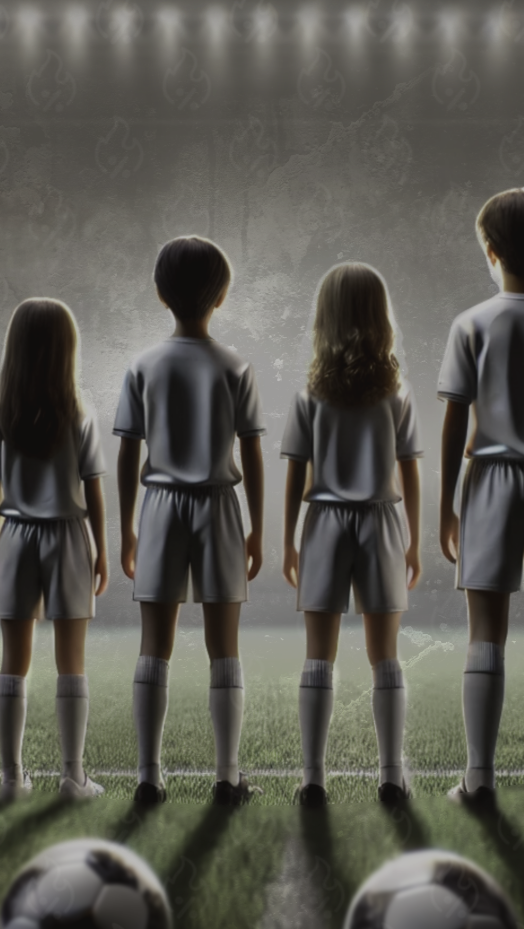
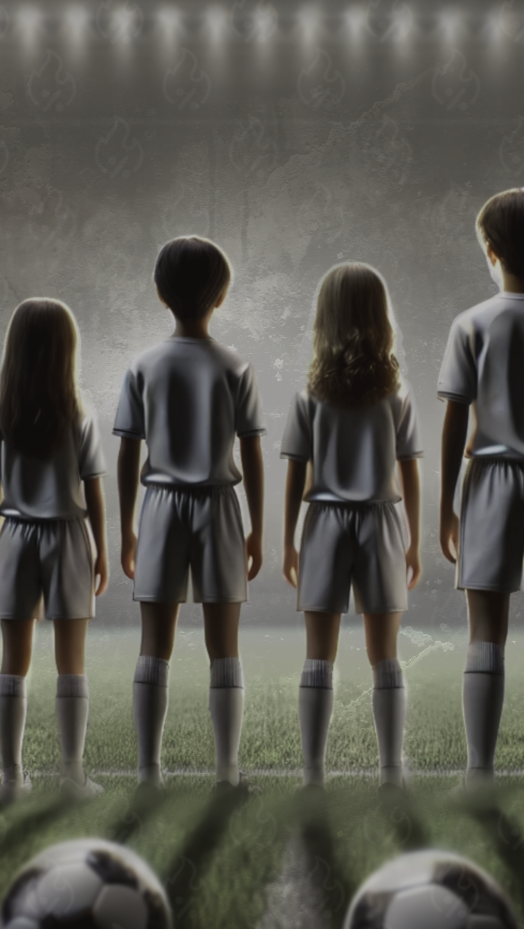
chnaged background on all påages

Changed region(s): [[0.2443, 0.8116, 0.9771, 0.9053], [0.0916, 0.8116, 0.2137, 0.8741]]

diff --git a/src/app/sajobbarvi/page.module.css b/src/app/sajobbarvi/page.module.css
@@ -9,6 +9,8 @@
   flex: 1;
   display: flex;
   width: 100%;
+  background-image: linear-gradient(rgba(0, 0, 0, 0.2), rgba(0, 0, 0, 0.2)),
+    url("../assets/images/pagesBG/pagesBG1.png");
   background-size: cover;
   background-position: center;
   background-repeat: no-repeat;
@@ -144,12 +146,11 @@
 @media (max-width: 768px) {
   /* För mobiltelefoner */
   .mainSajobbarvi {
-    background-attachment: fixed;
-    background-size: cover;
-    background-position: center;
-    min-height: 100vh;
-    height: 100vh;
-    background-repeat: no-repeat;
+    background-image: linear-gradient(rgba(0, 0, 0, 0.2), rgba(0, 0, 0, 0.2)),
+      url("../assets/images/pagesBG/pagesBGMobile1.png") !important;
+    background-size: contain;
+    background-position: center top;
+    background-repeat: repeat;
   }
 
   .sajobbarviTextTitle {

diff --git a/src/app/kontaktaoss/page.module.css b/src/app/kontaktaoss/page.module.css
@@ -11,6 +11,8 @@
   flex: 1;
   display: flex;
   width: 100%;
+  background-image: linear-gradient(rgba(0, 0, 0, 0.2), rgba(0, 0, 0, 0.2)),
+    url("../assets/images/pagesBG/pagesBG1.png");
   background-size: cover;
   background-position: center;
   background-repeat: no-repeat;
@@ -223,12 +225,11 @@
 
 @media only screen and (max-width: 768px) {
   .mainKontaktaoss {
-    background-attachment: fixed;
-    background-size: cover;
-    background-position: center;
-    min-height: 100vh;
-    height: 100vh;
-    background-repeat: no-repeat;
+    background-image: linear-gradient(rgba(0, 0, 0, 0.2), rgba(0, 0, 0, 0.2)),
+      url("../assets/images/pagesBG/pagesBGMobile1.png") !important;
+    background-size: contain;
+    background-position: center top;
+    background-repeat: repeat;
   }
 
   .kontaktaossTitle h1 {

diff --git a/src/app/hjartefragor/page.module.css b/src/app/hjartefragor/page.module.css
@@ -10,6 +10,8 @@
   flex: 1;
   display: flex;
   width: 100%;
+  background-image: linear-gradient(rgba(0, 0, 0, 0.2), rgba(0, 0, 0, 0.2)),
+    url("../assets/images/pagesBG/pagesBG1.png");
   background-size: cover;
   background-position: center;
   background-repeat: no-repeat;
@@ -135,12 +137,11 @@
 
 @media (max-width: 768px) {
   .mainHjartefragor {
-    background-attachment: fixed;
-    background-size: cover;
-    background-position: center;
-    min-height: 100vh;
-    height: 100vh;
-    background-repeat: no-repeat;
+    background-image: linear-gradient(rgba(0, 0, 0, 0.2), rgba(0, 0, 0, 0.2)),
+      url("../assets/images/pagesBG/pagesBGMobile1.png") !important;
+    background-size: contain;
+    background-position: center top;
+    background-repeat: repeat;
   }
 
   .hjartefragorTitle h1 {

diff --git a/src/app/partner/page.module.css b/src/app/partner/page.module.css
@@ -12,7 +12,8 @@
   justify-content: center;
   flex-direction: column;
   align-items: center;
-  background-image: url('../assets/images/pagesBG/pagesBG1.png');
+  background-image: linear-gradient(rgba(0, 0, 0, 0.2), rgba(0, 0, 0, 0.2)),
+    url("../assets/images/pagesBG/pagesBG1.png");
   background-size: cover;
   background-position: center;
   background-repeat: no-repeat;
@@ -136,6 +137,14 @@
 }
 
 @media (max-width: 768px) {
+  .mainPartner {
+    background-image: linear-gradient(rgba(0, 0, 0, 0.2), rgba(0, 0, 0, 0.2)),
+      url("../assets/images/pagesBG/pagesBGMobile1.png") !important;
+    background-size: contain;
+    background-position: center top;
+    background-repeat: repeat;
+  }
+  
   .partnerForeningarContent {
     flex-direction: column;
     margin-top: -2.5rem;

diff --git a/src/app/cookiePolicy/page.module.css b/src/app/cookiePolicy/page.module.css
@@ -10,9 +10,12 @@
   flex: 1;
   display: flex;
   width: 100%;
+  background-image: linear-gradient(rgba(0, 0, 0, 0.2), rgba(0, 0, 0, 0.2)),
+    url("../assets/images/pagesBG/pagesBG1.png");
   background-size: cover;
   background-position: center;
   background-repeat: no-repeat;
+  background-attachment: fixed;
   justify-content: center;
   flex-direction: column;
 }
@@ -85,6 +88,14 @@
 }
 
 @media only screen and (max-width: 768px) {
+  .mainCookiePolicy {
+    background-image: linear-gradient(rgba(0, 0, 0, 0.2), rgba(0, 0, 0, 0.2)),
+      url("../assets/images/pagesBG/pagesBGMobile1.png") !important;
+    background-size: contain;
+    background-position: center top;
+    background-repeat: repeat;
+  }
+  
   .cookiePolicyTitle {
     font-size: 2rem;
   }

diff --git a/src/app/vemarvi/page.module.css b/src/app/vemarvi/page.module.css
@@ -9,6 +9,8 @@
   flex: 1;
   display: flex;
   width: 100%;
+  background-image: linear-gradient(rgba(0, 0, 0, 0.2), rgba(0, 0, 0, 0.2)),
+    url("../assets/images/pagesBG/pagesBG1.png");
   background-size: cover;
   background-position: center;
   background-repeat: no-repeat;
@@ -152,11 +154,10 @@
 
 @media (max-width: 768px) {
   .mainVemarvi {
-    background-attachment: fixed;
-    background-size: cover;
+    background-image: linear-gradient(rgba(0, 0, 0, 0.2), rgba(0, 0, 0, 0.2)),
+      url("../assets/images/pagesBG/pagesBGMobile1.png") !important;
+    background-size: contain;
     background-position: center;
-    min-height: 100vh;
-    height: 100vh;
     background-repeat: no-repeat;
   }
 

diff --git a/src/app/cookiePolicy/page.tsx b/src/app/cookiePolicy/page.tsx
@@ -1,5 +1,5 @@
 import styles from "./page.module.css";
-import pagesBG from "../assets/images/pagesBG/pagesBG.png";
+import pagesBG1 from "../assets/images/pagesBG/pagesBG1.png";
 
 import { oswald, barlowCondensed } from "../layout";
 
@@ -11,7 +11,7 @@ const CookiePolicy = () => {
          <main
         className={styles.mainCookiePolicy}
         style={{
-          backgroundImage: `url(${pagesBG.src})`,
+          backgroundImage: `url(${pagesBG1.src})`,
         }}
       >
       <h1 className={`${oswald.className} ${styles.cookiePolicyTitle}`}>Cookie Policy</h1>

diff --git a/src/app/sajobbarvi/page.tsx b/src/app/sajobbarvi/page.tsx
@@ -11,9 +11,6 @@ export default function Sajobbarvi() {
     <div className={styles.sajobbarviPage}>
       <main
         className={styles.mainSajobbarvi}
-        style={{
-          backgroundImage: `url(${pagesBG1.src})`,
-        }}
       >
         <h2 className={`${styles.sajobbarviTextTitle} ${oswald.className}`}>
           Så jobbar vi för att <br /> stärka er förenings ekonomi

diff --git a/src/app/vemarvi/page.tsx b/src/app/vemarvi/page.tsx
@@ -12,9 +12,6 @@ export default function Vemarvi() {
     <div className={styles.vemarviPage}>
       <main
         className={styles.mainVemarvi}
-        style={{
-          backgroundImage: `url(${pagesBG1.src})`,
-        }}
       >
         <h2 className={`${styles.vemarviTextTitle} ${oswald.className}`}>
           Redo att förändra spelet? <br /> Vi är här för dig!

diff --git a/src/app/kontaktaoss/page.tsx b/src/app/kontaktaoss/page.tsx
@@ -18,9 +18,6 @@ export default function Kontaktaoss() {
     <div className={styles.kontaktaossPage}>
       <main
         className={styles.mainKontaktaoss}
-        style={{
-          backgroundImage: `url(${pagesBG1.src})`,
-        }}
       >
         <div className={`${styles.kontaktaossTitle} ${oswald.className}`}>
           <h1 className={styles.kontaktaossHeading}>

diff --git a/src/app/hjartefragor/page.tsx b/src/app/hjartefragor/page.tsx
@@ -12,9 +12,6 @@ export default function Hjartefragor() {
     <div className={styles.hjartefragorPage}>
       <main
         className={styles.mainHjartefragor}
-        style={{
-          backgroundImage: `url(${pagesBG1.src})`,
-        }}
       >
         <div className={`${styles.hjartefragorTitle} ${oswald.className}`}>
           <h1>Hjärtefrågor</h1>

diff --git a/src/app/partner/page.tsx b/src/app/partner/page.tsx
@@ -65,9 +65,6 @@ export default function Partner() {
     <div className={styles.partnerPage}>
       <main
         className={styles.mainPartner}
-        style={{
-          backgroundImage: `url(${pagesBG1.src})`,
-        }}
       >
         <div className={`${styles.partnerTitle} ${oswald.className}`}>
           <h1></h1>
